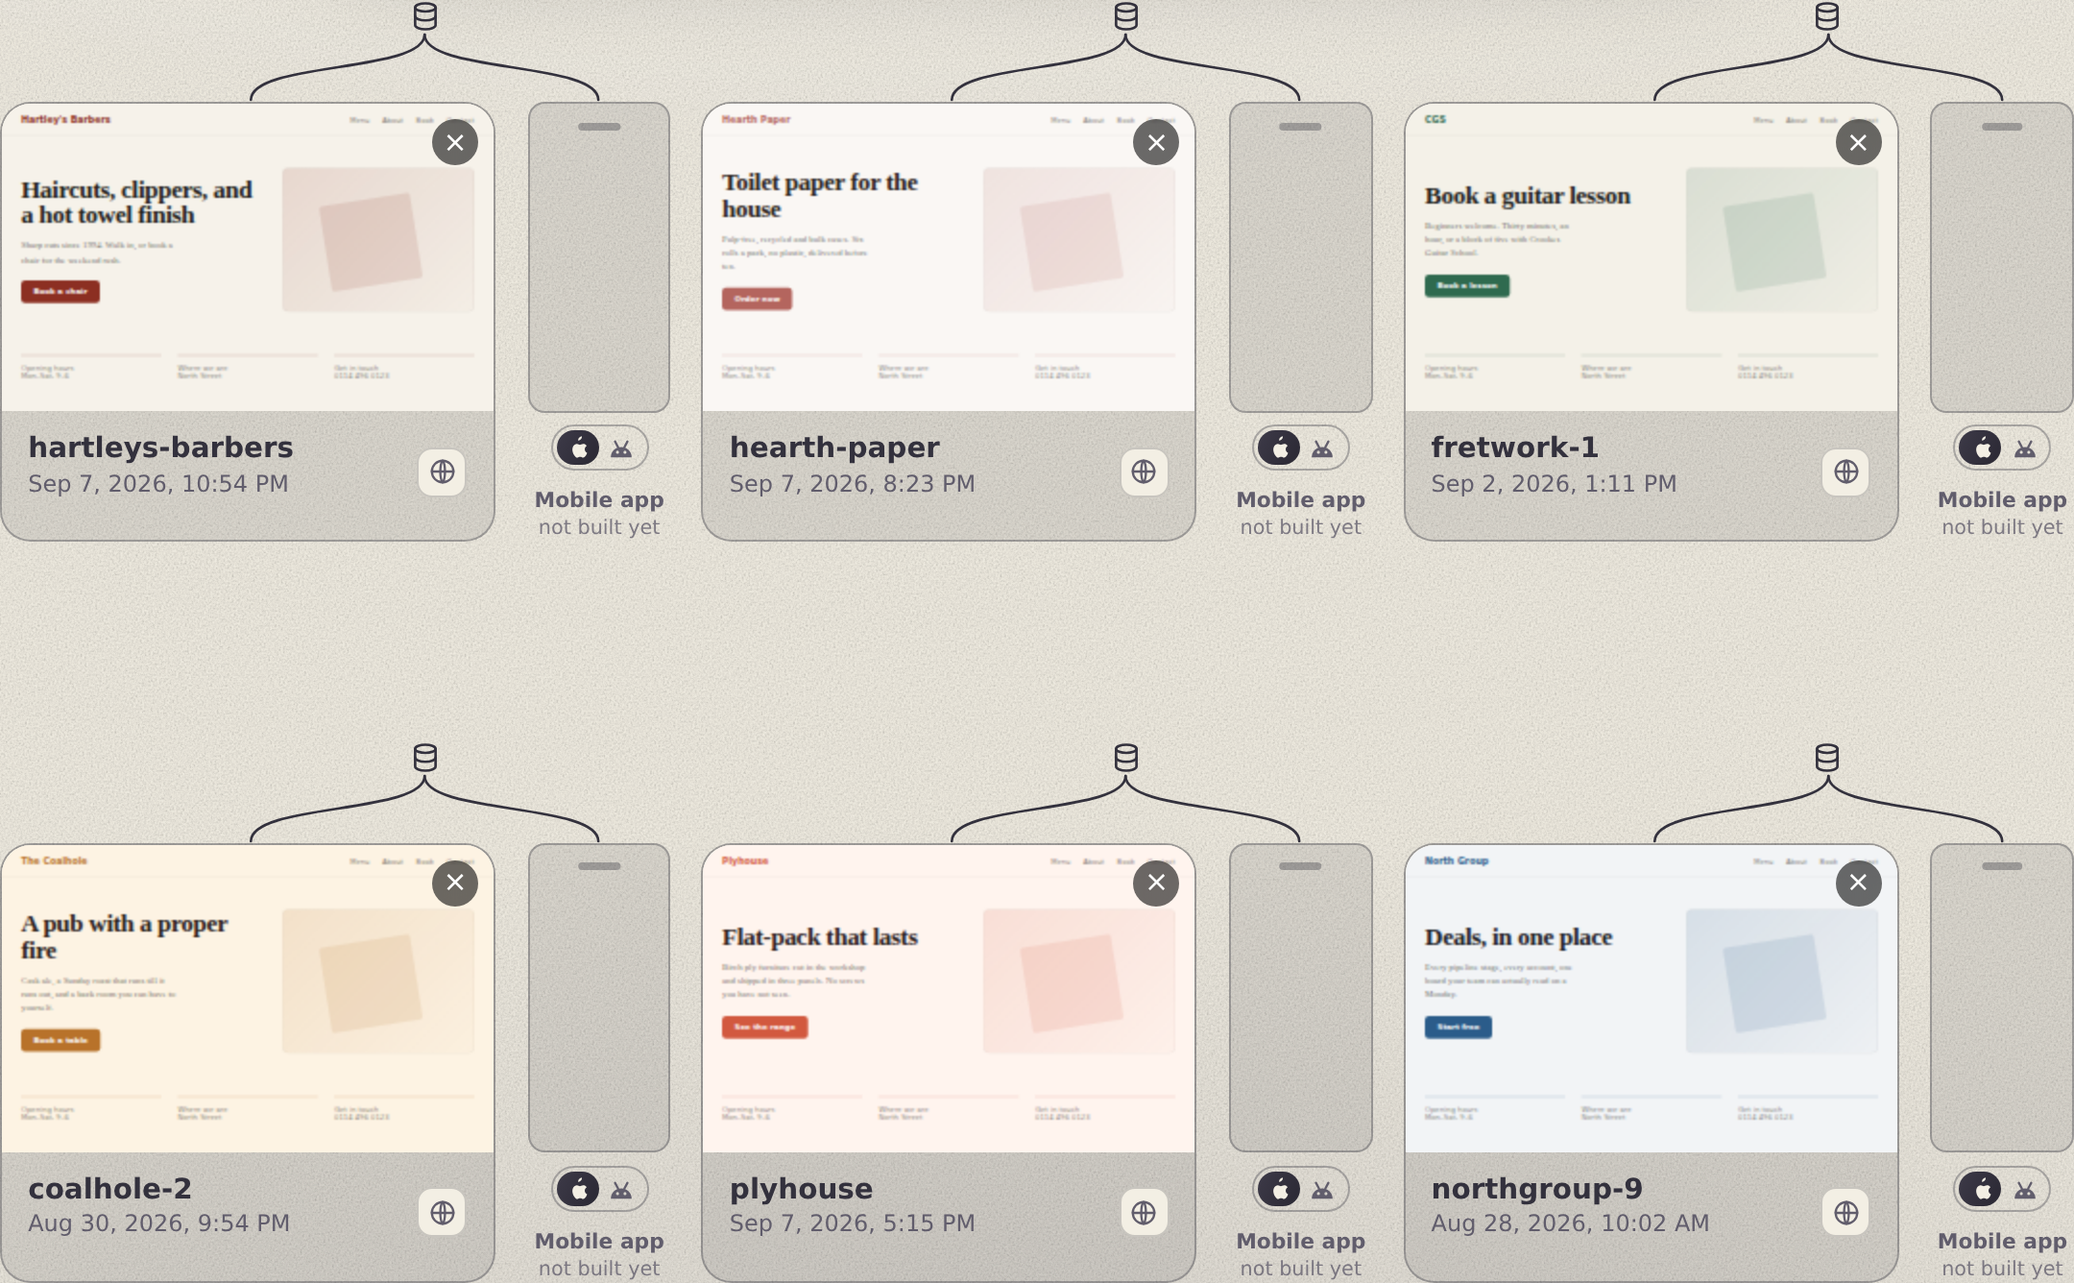
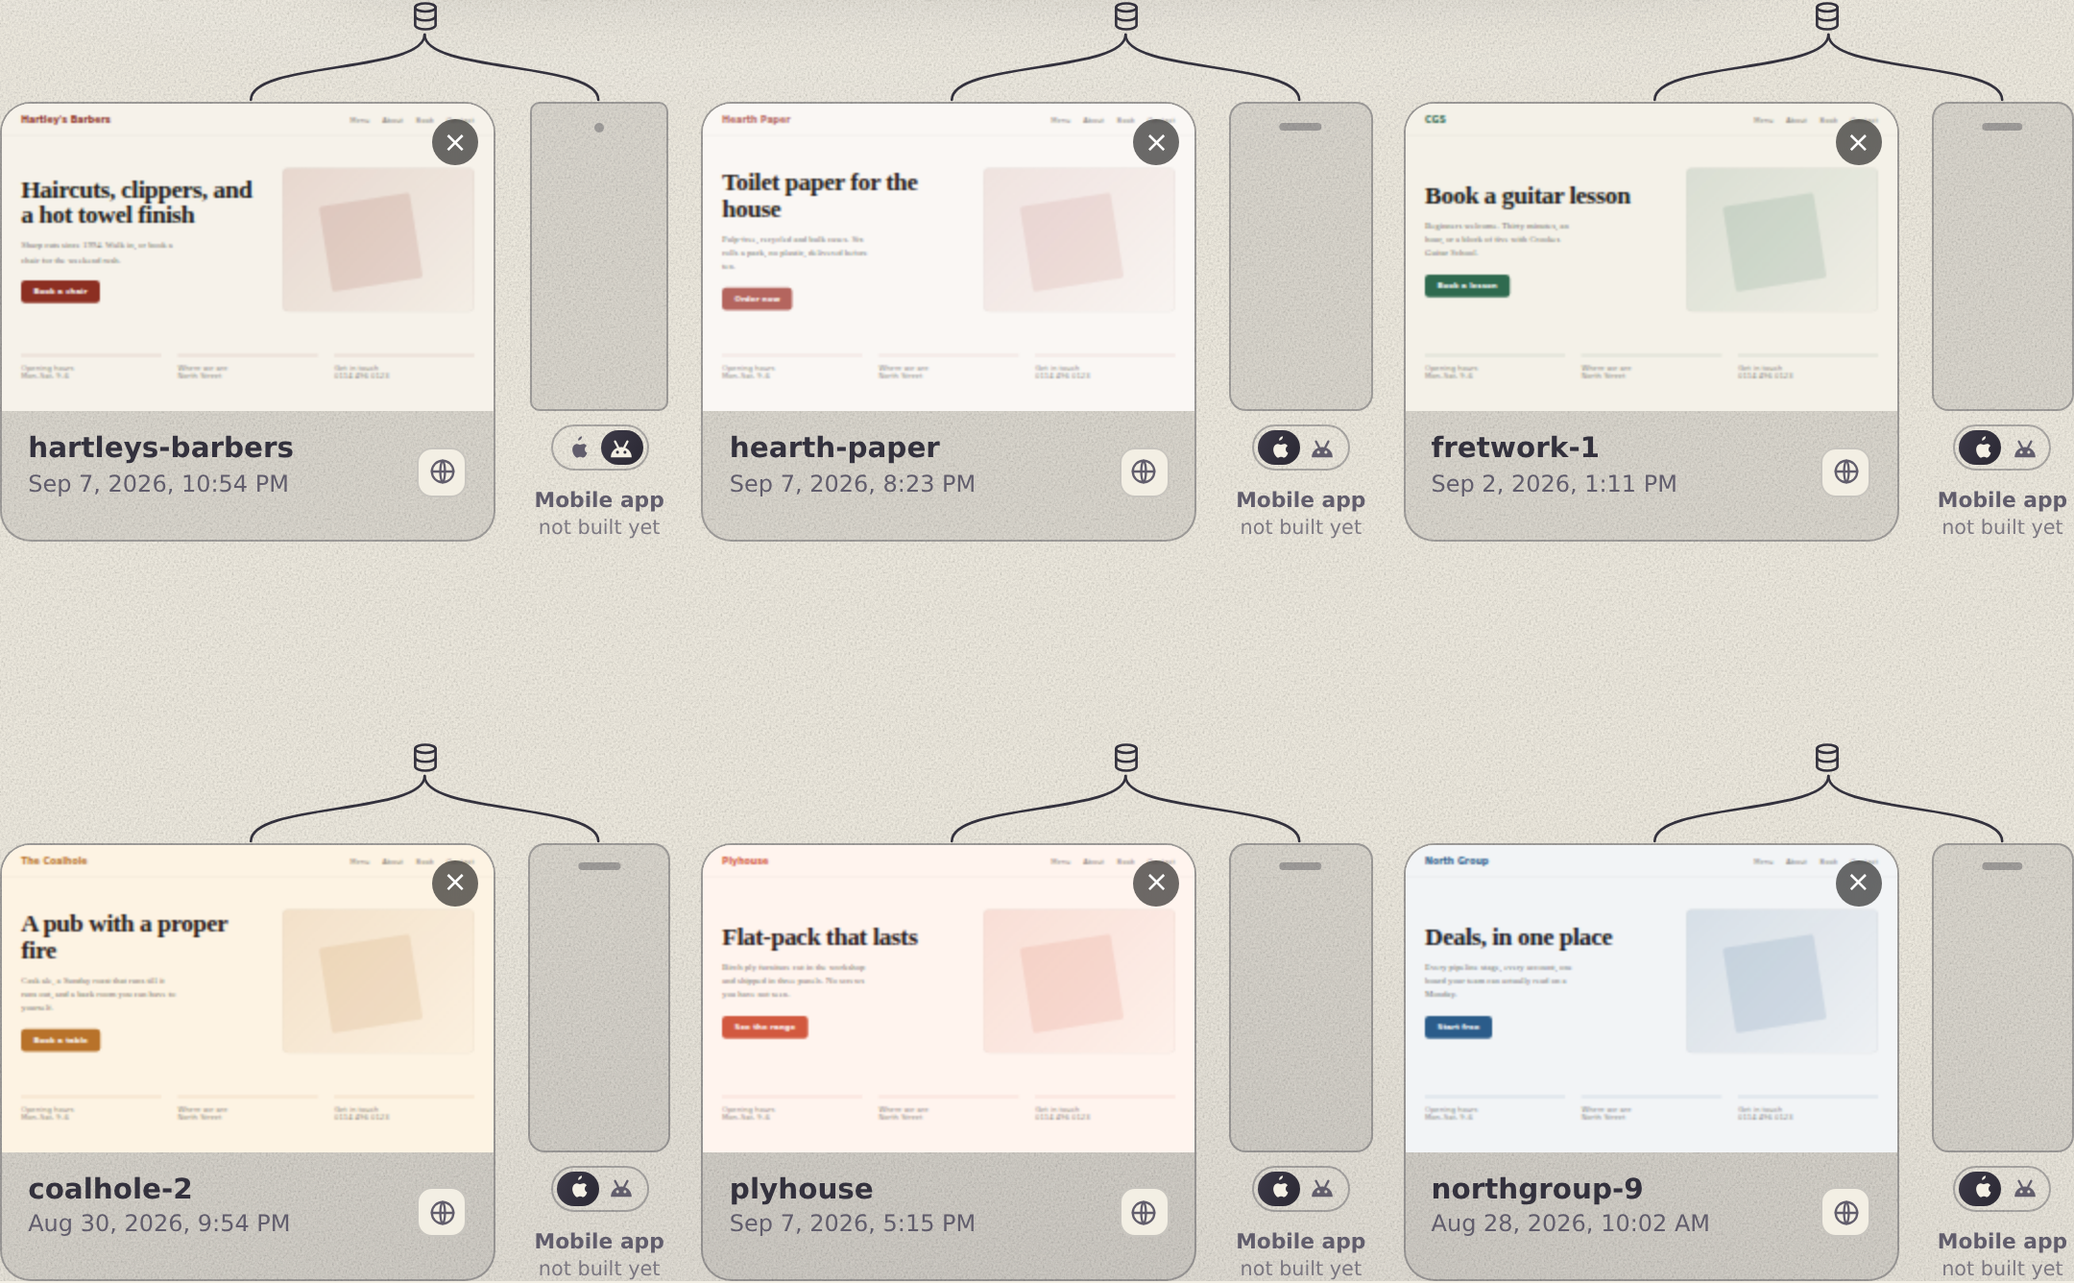
The switch moves the phone and nothing else on the row
Owner, on the live start screen: "THE SITE SQUARE THING MOVES , WHEN I TAP
TO SWICTH". Pressing Android on a card's phone switch resized the site card
beside it — and the neighbouring card with it.

The two phones are different SHAPES (393/852 against 412/915), so a phone
that took the pair's column width directly came out taller on Android. The
pair's second row is `1fr` with stretched items, so that height reached the
tile, the card, and every other card in the same grid row. MEASURED before
the fix: the card grew 3.9px at 1512, 5.8 at 1100, 7.4 at 700, and the
neighbouring card moved by the same amount every time.

I had measured that 4px while building the switch and written it into the
notes as a description rather than asking where the pixels land. The owner
found in one tap what the arithmetic was already saying.

The fix is a box whose shape never changes. `.st-app-screen` takes the
column's width at a LITERAL 390/844 — the ratio the `1fr .2888fr` column
derivation was built on — and the phone is height-led inside it, so a taller
phone comes out NARROWER rather than taller. That is the workspace panel's
own answer to the same problem, so the two phones this app draws are sized
the same way. The literal is load-bearing: a `var(--os-ratio)` on the box
would put the movement straight back, and a guard forbids it.

Centring became load-bearing with it. The phone changes width inside a fixed
box now, so without `justify-content: center` it would jump to the left edge
[…]

diff --git a/public/styles.css b/public/styles.css
@@ -1602,11 +1602,28 @@ body.in-sites .top-tab, body.in-sites .top-back { display: none !important; }
    what keeps the phone level with the thumbnail while the card stretches to the
    tallest in its row. */
 .st-app { min-width: 0; display: grid; align-content: start; gap: .12rem; }
+/* THE BOX THE PHONE SITS IN, AND ITS RATIO IS FIXED ON PURPOSE (2026-09-09,
+   owner: "THE SITE SQUARE THING MOVES , WHEN I TAP TO SWICTH").
+   The two phones are different SHAPES, so a phone that took the column's width
+   directly came out 4px taller on Android — and the pair's second row is `1fr`
+   with stretched items, so that grew the tile, the card, and every other card in
+   the same grid row. MEASURED before the fix: 3.9px at 1512, 5.8 at 1100, 7.4 at
+   700, with the neighbouring card moving too.
+   This box takes the column's width and NEVER changes shape, so the row's height
+   is decided once. 390/844 is the ratio the column arithmetic was derived from,
+   which is why the phone inside now stands exactly as tall as the thumbnail
+   rather than within a couple of pixels of it. It must stay a literal: a
+   `var(--os-ratio)` here would put the movement straight back. */
+.st-app-screen { width: 100%; aspect-ratio: 390 / 844; display: flex; justify-content: center; }
 .st-app-phone {
-  /* The RATIO comes from the shared `[data-os]` block beside the workspace
-     panel's device, so the two components cannot disagree about what an iPhone
-     is; the fallback is the shape this tile had before the switch existed. */
-  width: 100%; aspect-ratio: var(--os-ratio, 390 / 844); position: relative;
+  /* HEIGHT-LED INSIDE THAT BOX — the workspace panel's own answer for the same
+     problem, so the two phones this app draws are sized the same way. The RATIO
+     comes from the shared `[data-os]` block beside the panel's device, so the
+     two components cannot disagree about what an iPhone is; the fallback is the
+     shape this tile had before the switch existed. A taller phone is NARROWER
+     here rather than taller, which is what keeps the card still. */
+  height: 100%; width: auto; max-width: 100%;
+  aspect-ratio: var(--os-ratio, 390 / 844); position: relative;
   border: 1px solid var(--line-2); border-radius: 16px;
   /* THE CARD'S OWN GROUND, read from the same token rather than restated, so a
      palette change moves both and they cannot drift into two greys. */

diff --git a/public/chat.js b/public/chat.js
@@ -10596,8 +10596,16 @@ function siteAppTile(id, os) {
   // means "a control that names a site" and is what the CARD's own handler binds
   // to, and these segments are not card actions — a shared attribute would put
   // them through a handler that opens the Data view.
+  // THE PHONE SITS IN A BOX WHOSE SIZE NEVER CHANGES (owner, 2026-09-09: "THE
+  // SITE SQUARE THING MOVES , WHEN I TAP TO SWICTH"). The two phones are
+  // different SHAPES — 393/852 against 412/915 — so a phone that took the
+  // column's width came out 4px taller on Android, and because the pair's second
+  // row is `1fr` with stretched items that grew the tile, the card, AND every
+  // other card in that grid row. MEASURED before the fix: 3.9px at 1512, 5.8 at
+  // 1100, 7.4 at 700, and the neighbouring card moved with it.
+  // `.st-app-screen` is the fixed box; the phone is height-led inside it.
   return '<div class="st-app" data-app="' + esc(id) + '">' +
-    '<div class="st-app-phone" data-os="' + on + '"></div>' +
+    '<div class="st-app-screen"><div class="st-app-phone" data-os="' + on + '"></div></div>' +
     '<div class="st-app-os" role="group" aria-label="Which phone">' +
       MOBILE_OSES.map(seg).join('') + '</div>' +
     '<span class="st-app-t">Mobile app</span>' +

diff --git a/CLAUDE.md b/CLAUDE.md
@@ -1843,9 +1843,16 @@ half. MEASURED on the real tree at 1920, 1512, 1100 and 700: pair 349, site
 *"NOW HERE WHERE THE PHONE THING IS , I WANT LIKE A SWICTH TO SWTITH FROM APPLE
 TO ANDORID , JUST AS A PERVIEW THING"* → two placements rendered → *"A"*)
 
-Two mark-only segments under the tile's phone. Pressing one reshapes **every**
-phone on the screen: rounder corners and a wide pill for the iPhone, squarer
-corners and a punch-hole for the Android.
+Two mark-only segments under the tile's phone. Pressing one reshapes **that
+card's** phone: rounder corners and a wide pill for the iPhone, squarer corners
+and a punch-hole for the Android.
+
+**AND THAT SENTENCE SAID "EVERY PHONE ON THE SCREEN" FOR AN HOUR AFTER IT STOPPED
+BEING TRUE.** The per-card change below rewrote the bullet and left the paragraph
+introducing it describing the behaviour it had just replaced — this file's own
+recorded "a number stamped in two places drifts when only one is corrected", in
+prose rather than in a total, and nothing reads either copy so nothing failed.
+When a behaviour changes, grep the section for every sentence that states it.
 
 - **IT REUSES THE WORKSPACE PANEL'S MACHINERY RATHER THAN COPYING IT.**
   `MOBILE_OSES`, `MOBILE_LABELS`, `BRAND_MARKS`, `brandMark` and `setMobileOs`
@@ -2003,10 +2010,98 @@ corners and a punch-hole for the Android.
   1100 and 700: card **258/258/383/480** unchanged, the phone within **2px** of
   its thumbnail, the database still exactly 50.0% of the pair and 36px clear of
   the card, the grid's row gap 104px, no page overflow. The proof is one look:
-  two small marks under each phone, pressing the robot squares every phone's
-  corners at once. Renders: `docs/edits/site-cards-phone.png` and `-2across.png`,
+  two small marks under each phone, pressing the robot squares that card's
+  corners. Renders: `docs/edits/site-cards-phone.png` and `-2across.png`,
   refreshed. **And `chat.js` is cached**, so a hard refresh is part of it
   reaching anybody.
+
+### AND THE SWITCH MOVES THE PHONE AND NOTHING ELSE (2026-09-09, owner: *"THE
+SITE SQUARE THING MOVES , WHEN I TAP TO SWICTH ,"*)
+
+The two phones are different SHAPES — 393/852 against 412/915 — and the phone
+took the COLUMN'S WIDTH, so Android came out taller. The pair's second row is
+`1fr` with `align-items: stretch`, so that height went into the tile, into the
+card, **and into every other card in that grid row**. MEASURED before the fix,
+at three column counts: the card grew **3.9px at 1512, 5.8 at 1100, 7.4 at
+700**, and the neighbouring card moved by the same amount.
+
+- **THE ENTRY ABOVE CALLED IT A FEATURE.** Its own bullet said the Android
+  phone *"stands a few pixels taller"* — I measured that difference while
+  building the switch, wrote it down as a description, and never asked what the
+  extra height lands on. **A number measured and not interrogated is not a
+  measurement**; the owner found in one tap what the arithmetic was already
+  saying.
+- **THE FIX IS A BOX WHOSE SHAPE NEVER CHANGES.** `.st-app-screen` takes the
+  column's width at a LITERAL `390 / 844` — the ratio the whole column
+  derivation was built on — and the phone is HEIGHT-LED inside it (`height:
+  100%; width: auto; max-width: 100%`), the workspace panel's own answer to the
+  same problem, so the two phones this app draws are sized the same way. **A
+  taller phone comes out NARROWER rather than taller**, and the row's height is
+  decided once. The box's ratio must stay a literal: a `var(--os-ratio)` there
+  puts the movement straight back, and it is the single edit that would.
+- **AND IT MADE THE COLUMN ARITHMETIC EXACT.** The phone used to sit within
+  **2px** of its thumbnail because its own ratio was doing the sizing; the box
+  is the shape the `1fr .2888fr` column was derived from, so the phone now
+  stands within **1px**. MEASURED after, at 1512/1100/700: card **0**, tile
+  **0**, neighbouring card **0** — nothing moves on a press but the phone's own
+  width (−1.8 to −3.3px).
+- **THE CENTRING IS LOAD-BEARING NOW, AND A SWEEP IS WHAT SAID SO.** The phone
+  changes WIDTH inside a fixed box, so without `justify-content: center` it
+  jumps to the left edge on every press — the owner's own complaint, one axis
+  over. Nothing guarded it: the mutant that removed it SURVIVED the first pass.
+  Guarded and re-run to a kill.
+- **EVERY GUARD ON THIS SCREEN PASSED THROUGH THE DEFECT, and that is the
+  finding.** Thirty-two cases proved the switch changes something visible — a
+  corner, a camera, a ratio, a lit segment — and **not one proved it changes
+  ONLY that**. A control whose side effect is the layout around it is a
+  different failure from a control that does nothing, and this file had a
+  reader for the second and none for the first. The new case asserts the box's
+  shape is a literal, the phone is height-led, the box IS the phone's own
+  fallback shape (so an unswitched card draws a phone that fills its box), the
+  pair still stretches — **beside the reason, so the argument cannot quietly
+  stop being true** — and, DRIVEN, that the box is really drawn with the phone
+  inside it, since every other assertion here is a statement about the
+  STYLESHEET and a rule for an element nobody writes styles nothing at all.
+- **Proven red before green**, twice: restoring `aspect-ratio: var(--os-ratio,
+  …)` on the box fails the new case, removing the centring fails it, and a
+  second guard — "every class the tile writes is a class the stylesheet styles,
+  and back" — catches the wrapper's deletion independently.
+- **Sweep: 56 mutants, 56 killed, none survived, none unapplied, two
+  comment-only controls survived — ONE survived the first pass and it is the
+  centring, above.** The new ones: the box taking the switch's ratio (the defect
+  itself), the box with no shape at all, sized from a px width or from a HEIGHT
+  (which takes the grid row's height and breaks the column derivation), its
+  shape drifting from the phone's own fallback, the phone width-led again,
+  setting a width beside its height, not sized from the box, allowed to overflow
+  sideways, no longer reading the shared ratio, the pair no longer stretching
+  (so the box's fixed shape quietly stops mattering), the box never drawn, and
+  the centring dropped. **Two of the earlier set's anchors had gone stale on the
+  lines this change touched and were re-pointed at the property each always
+  held** — "the phone is told which one it is" (the wrapper now sits around that
+  line) — **and ONE was RE-AIMED rather than re-anchored**: its property, "the
+  card's phone must read the shared ratio rather than spelling its own", became
+  identical to a new mutant's when the declaration split in two, and two mutants
+  for one property prove nothing twice. It is the centring now, which is the
+  property this change MADE load-bearing.
+- **All five mobile sweeps re-run whole on the final tree: switch 56/56, phone
+  69/69, column 30/30, os 27/27, drag 23/23 — 205 mutants, 205 killed, none
+  survived, none unapplied, every control surviving.** The phone sweep's five
+  stale anchors were re-pointed the same way, **one of them RE-AIMED**: "the
+  phone is sized from a height rather than the column" was a defect while the
+  phone WAS the column's item and height-led is the fix now, so re-anchoring it
+  would have shipped a mutant asserting the opposite of the product; it aims at
+  the BOX, which is where that property lives today.
+  Full suite **5,721**.
+- **AND A CONTAINER RESTART LEFT A LIVE MUTANT IN THE TREE.** The five sweeps
+  were mid-run when the session's container went away, so `scripts/mutate.mjs`
+  never reached its `finally` and `public/styles.css` was left carrying the
+  drag sweep's specificity mutant (`.st-mob[data-os] .st-mob-one[data-os]` cut
+  down to `.st-mob-one`). **The recorded killed-sweep trap from a third
+  direction** — not a tool timeout, not a stray `&`, just the machine going
+  away — and the standing answer held: `git diff` found it in one read, before
+  anything else was done. All five sweeps were then re-run WHOLE on the
+  restored tree, because an interrupted sweep proves nothing about the tree it
+  did not finish measuring.
 
 ### A MOBILE APP COLUMN YOU OPEN AND CLOSE (2026-09-08, owner: *"i want to make
 a column in the right hand side"* → *"Is for mobile app"* → *"in a sidebar not

diff --git a/docs/owner-notes.md b/docs/owner-notes.md
@@ -228,9 +228,14 @@ screen reader announces instead.
 
 **It changes something real.** Press the apple and the phone gets rounder corners
 and the wide pill notch; press the robot and it gets squarer corners and a small
-punch-hole, and stands a few pixels taller. That mattered more than it sounds: a
-switch whose two halves look identical is a dead control, and this project has
-now caught that six times in its own screens.
+punch-hole. That mattered more than it sounds: a switch whose two halves look
+identical is a dead control, and this project has now caught that six times in
+its own screens.
+
+*(This paragraph used to end "and stands a few pixels taller", which was true of
+the first version and is the very thing you spotted the next morning — see the
+entry below. Corrected here rather than left, because a note describing a bug as
+a feature is what the next person reads.)*
 
 **Each card remembers its own phone — and I got that wrong first.** The version I
 showed you moved every phone on the screen at once, off one shared setting. My
@@ -276,6 +281,62 @@ by the mutation run rather than by reading.
 
 **Not on the live site yet.** When it is: hard refresh, then look for two small
 marks under each phone.
+
+---
+
+## 2026-09-09 — The square stopped moving when you tap the switch
+
+You said *"THE SITE SQUARE THING MOVES , WHEN I TAP TO SWICTH."* You were right,
+and it was worse than it looked.
+
+**What was happening.** The two phones are genuinely different shapes — an
+iPhone is 393 by 852, an Android 412 by 915 — and the phone was sized from its
+width, so switching to Android made it *taller*. The site card and the phone sit
+in the same row and stretch to match each other, so that extra height pushed the
+card down — **and the card next to it too**. Measured before the fix: the card
+grew about 4 pixels at a normal window, 6 at a narrower one, 7 at the narrowest,
+and its neighbour moved by exactly the same amount.
+
+**What I did.** The phone now sits inside a frame that never changes shape, and
+the phone is sized from that frame's *height* instead of the column's width. So a
+taller phone comes out **narrower** rather than taller, and nothing around it can
+move. Measured after, at three window sizes: card 0, tile 0, neighbouring card 0.
+The only thing that changes is the phone's own width, by two or three pixels —
+which is the switch doing its job.
+
+**A small bonus.** The frame's shape is the one all the original column
+arithmetic was built on, so the phone now lines up with the site thumbnail to
+within a single pixel instead of two.
+
+**And I have to own the way this got in.** The note I wrote yesterday describing
+the switch says the Android phone *"stands a few pixels taller"* — I measured
+that difference while building it, wrote it down as if it were a description, and
+never asked where those pixels go. It was in my own notes the whole time. I have
+corrected that sentence rather than leaving it, because a note describing a bug
+as a feature is what the next person reads.
+
+**The tests all passed through it, which is the part worth telling you.** There
+are thirty-odd checks on that screen and every one of them proves the switch
+*changes something* — a corner, a camera notch, which button lights up. Not one
+of them proved it changes *only* that. So there is a new check now for exactly
+that, and I proved it fails on the old broken version before trusting it.
+
+**One thing the automated tests caught that I had not thought of.** Because the
+phone now changes width inside a fixed frame, if it were not centred it would
+jump to the left edge every time you tapped — the same complaint you made,
+sideways instead of downwards. Nothing was checking the centring. It is checked
+now.
+
+**And an honest note about the machine.** Halfway through, this session's
+container restarted while the mutation tests were running, which left one
+deliberately-broken line sitting in the stylesheet. I found it by reading the
+diff before doing anything else and put it back, then re-ran all five sets from
+scratch — a test run that was interrupted proves nothing about the code it never
+finished checking.
+
+**Not on the live site yet.** When it is: hard refresh, then tap between the
+apple and the robot on any card and watch the square beside it. Nothing should
+move but the phone.
 
 ---
 
